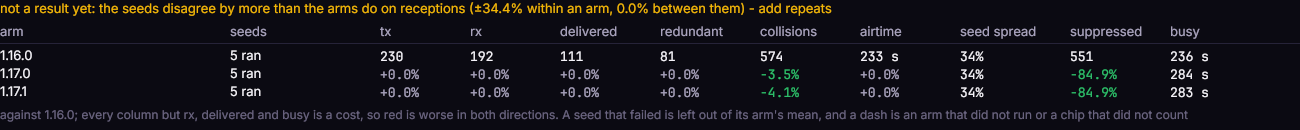
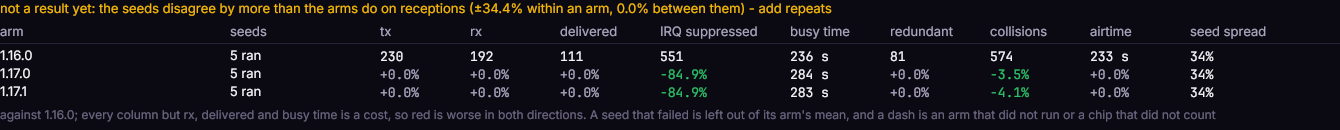
experiments: the chip columns by their names, beside delivery

diff --git a/pages/experiments.md b/pages/experiments.md
@@ -94,14 +94,14 @@ for every arm without being asked for, and `rx_spread` is the number every delta
 must beat before it means anything.
 
 The last two come from the chips rather than the channel, and they are where two
-firmwares that flood identically differ. The **Results** table shows them as
-**suppressed**, a cost where fewer is better, and **busy**, in seconds and
-without a colour, because more busy time is a firmware seeing more of the
+firmwares that flood identically differ. The **Results** table shows them
+straight after **delivered**, as **IRQ suppressed**, a cost where fewer is
+better, and **busy time**, in seconds and without a colour, because more busy time is a firmware seeing more of the
 traffic that is really there. Each is averaged over the seeds whose chips
 counted it. An arm whose chips sent no counters, such as one running emulated
 boards, shows a dash in both columns rather than a zero.
 
-![The Results table for MeshCore 1.16.0, 1.17.0 and 1.17.1 over five seeds: delivery identical in every arm, suppressed down 84.9% in 1.17, busy up from 236 s to 284 s](images/sweep-chip-counters.png)
+![The Results table for MeshCore 1.16.0, 1.17.0 and 1.17.1 over five seeds: delivery identical in every arm, IRQ suppressed down 84.9% in 1.17, busy time up from 236 s to 284 s](images/sweep-chip-counters.png)
 
 Every cell of `experiment.export` also carries `chip`: the same counters for
 every node, measured from the point the cell starts counting, after the adverts
